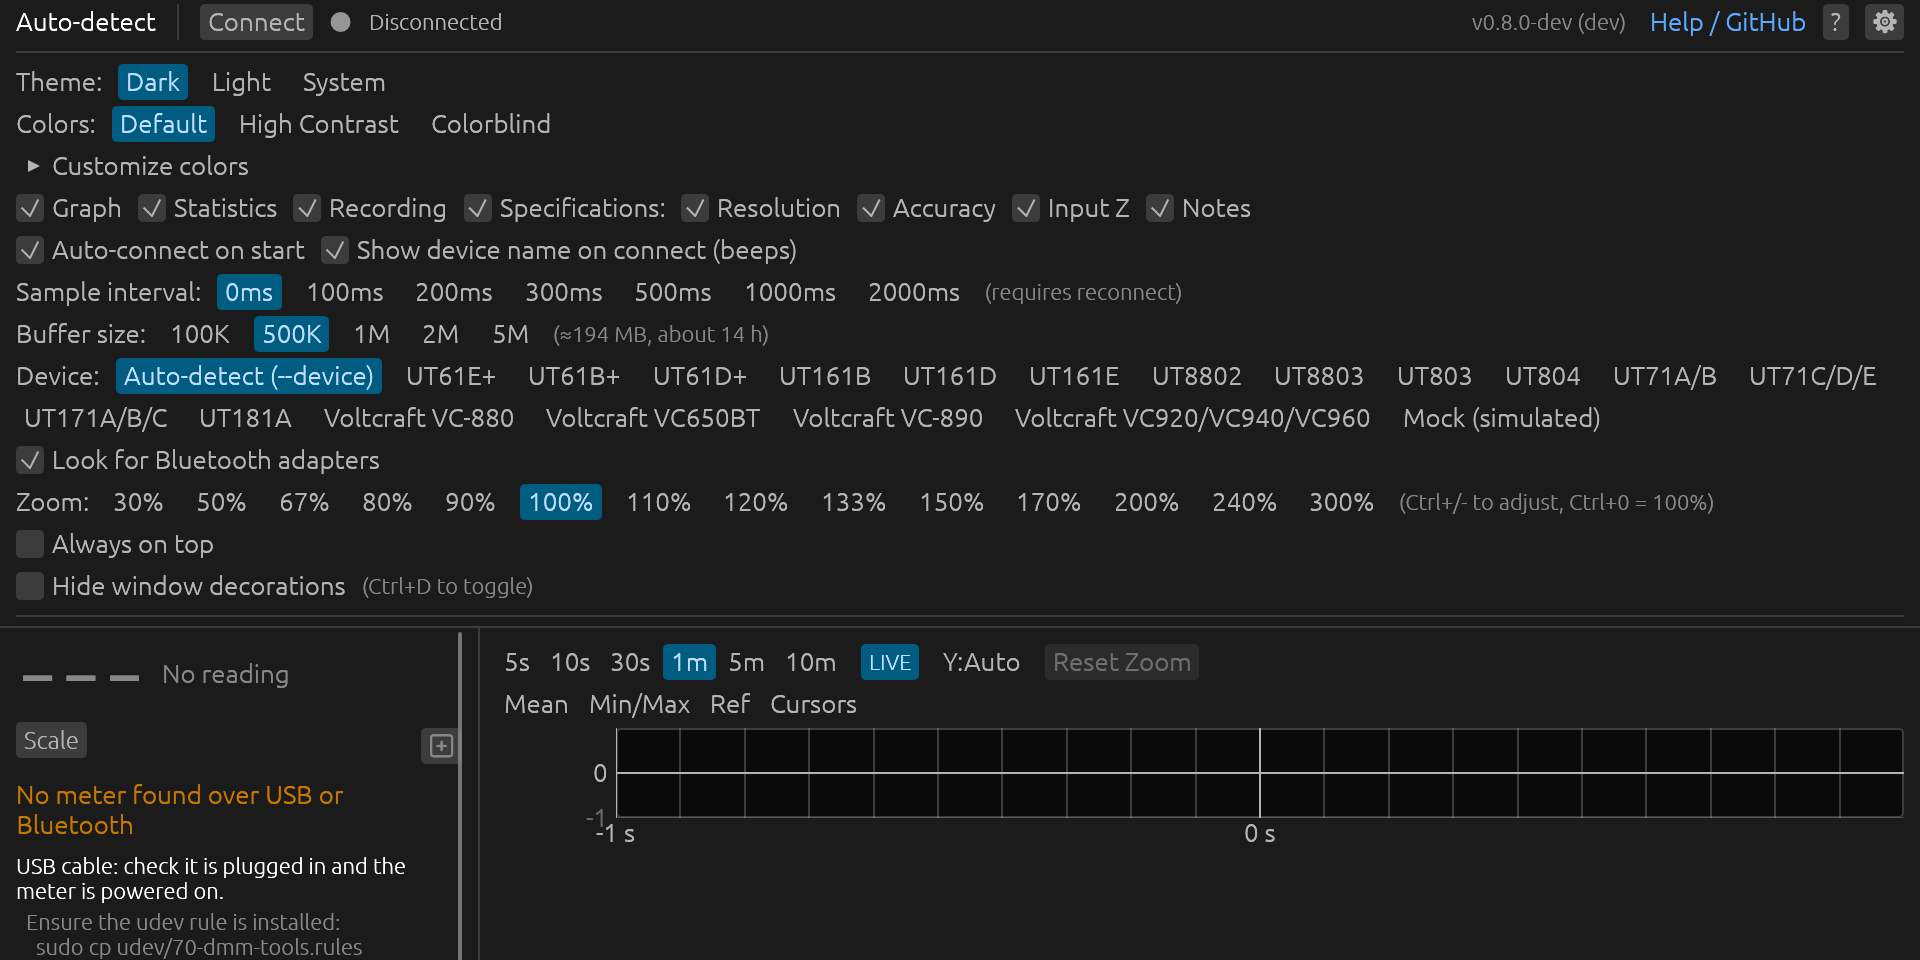
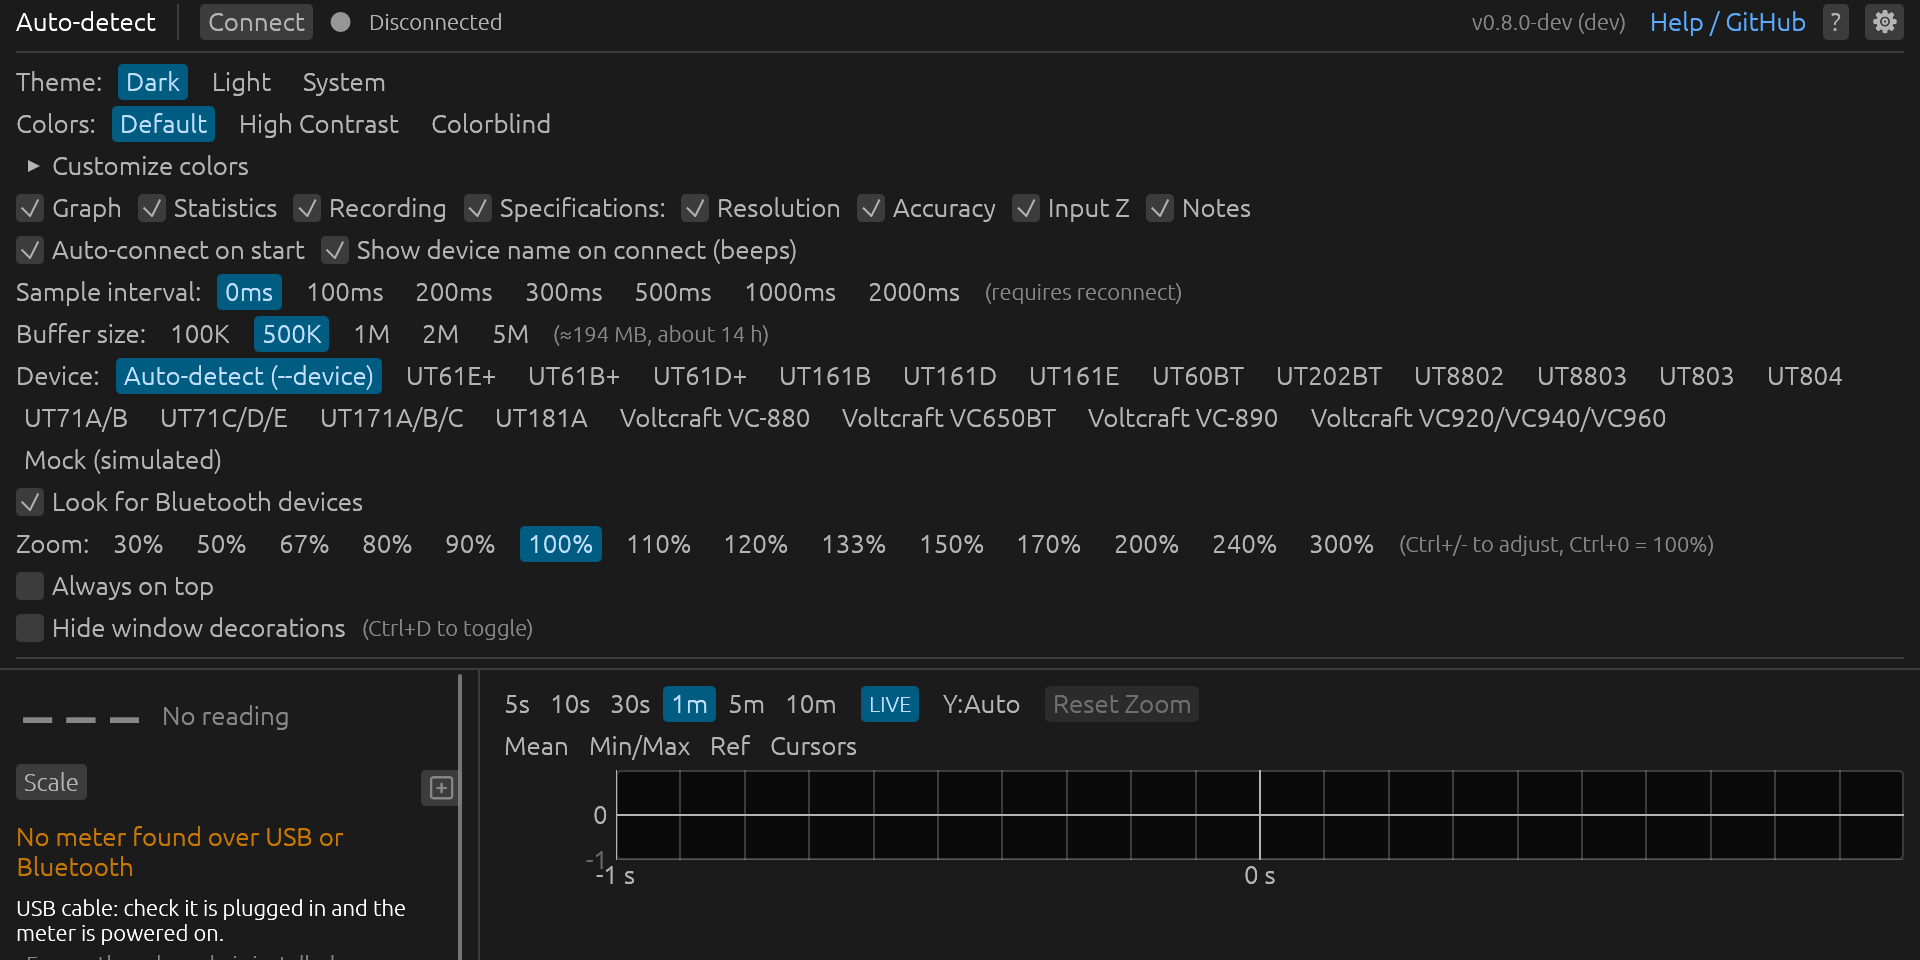
lib: look for Bluetooth devices, not only adapters
The Bluetooth setting and scan now find the UT60BT and UT202BT, which
have the radio built in, so the checkbox, its tooltip, the list hint
and the not-found error stop naming adapters alone.

diff --git a/crates/dmm-lib/src/binary_help.rs b/crates/dmm-lib/src/binary_help.rs
@@ -206,7 +206,7 @@ const USB_STEPS: &[&str] = &[];
 
 /// The GUI setting that lets an open search the radio, as its checkbox
 /// reads. The CLI reads the same saved setting, so its help names it too.
-pub const BLUETOOTH_SETTING: &str = "Look for Bluetooth adapters";
+pub const BLUETOOTH_SETTING: &str = "Look for Bluetooth devices";
 
 /// What turns the radio search back on in the CLI, for a meter with the
 /// radio built in that was not looked for: `flag_given` when
@@ -245,7 +245,7 @@ const BLUETOOTH_CATALOG: &[&str] = &[
 
 /// What to do instead when an address was named and nothing answered it: the
 /// scan is the only thing that says which addresses are live.
-const BLUETOOTH_SCAN: &[&str] = &["Run 'dmm-cli list' to scan for adapters in range."];
+const BLUETOOTH_SCAN: &[&str] = &["Run 'dmm-cli list' to scan for adapters and meters in range."];
 
 /// One link's worth of "nothing found" help: a label line, then its steps.
 ///
@@ -716,11 +716,11 @@ mod tests {
         assert_eq!(cli_bluetooth_off_hint(true), "Leave out --no-bluetooth.");
         assert_eq!(
             cli_bluetooth_off_hint(false),
-            "Tick \"Look for Bluetooth adapters\" in dmm-gui's settings, which dmm-cli reads too."
+            "Tick \"Look for Bluetooth devices\" in dmm-gui's settings, which dmm-cli reads too."
         );
         assert_eq!(
             gui_bluetooth_off_hint(),
-            "Tick \"Look for Bluetooth adapters\" in Settings (\u{2699})."
+            "Tick \"Look for Bluetooth devices\" in Settings (\u{2699})."
         );
     }
 

diff --git a/crates/dmm-lib/src/error.rs b/crates/dmm-lib/src/error.rs
@@ -139,7 +139,7 @@ fn bluetooth_only_message(model: &str, miss: &BluetoothOnlyMiss) -> String {
 /// Saying so keeps the user from hunting for a cable fault that isn't there.
 fn bluetooth_clause(searched: &bool) -> &'static str {
     if *searched {
-        ", nor a Bluetooth adapter in range"
+        ", nor a Bluetooth device in range"
     } else {
         ""
     }
@@ -404,7 +404,7 @@ mod tests {
     fn no_transport_message_names_every_link_tried() {
         let msg = not_found(true).to_string();
         assert!(
-            msg.contains(", nor a Bluetooth adapter in range"),
+            msg.contains(", nor a Bluetooth device in range"),
             "got {msg}"
         );
         assert!(!msg.contains("UT-D07"), "got {msg}");

diff --git a/crates/dmm-lib/src/lib.rs b/crates/dmm-lib/src/lib.rs
@@ -346,8 +346,8 @@ pub struct OpenOptions<'a> {
     /// `None` picks the first matching adapter (and logs a warning if several
     /// are found).
     pub adapter: Option<&'a str>,
-    /// Whether an open with nothing on the bus may go on to look for an
-    /// adapter in Bluetooth range. Off, nothing scans the radio — but an
+    /// Whether an open with nothing on the bus may go on to look for a
+    /// Bluetooth adapter or meter in range. Off, nothing scans the radio — but an
     /// address in `adapter` is still opened, having been asked for by name.
     pub bluetooth: bool,
 }

diff --git a/crates/dmm-gui/src/app/controls.rs b/crates/dmm-gui/src/app/controls.rs
@@ -709,7 +709,7 @@ impl App {
                 ui,
                 &mut self.settings.shared.bluetooth,
                 &label,
-                "Look for an adapter in Bluetooth range when no USB cable answers. \
+                "Look for a Bluetooth adapter or meter in range when no USB cable answers. \
                  Takes effect on the next connect.",
             ) {
                 // Cleared like every other row the user sets by hand: the

diff --git a/crates/dmm-gui/src/app/messages.rs b/crates/dmm-gui/src/app/messages.rs
@@ -1400,7 +1400,7 @@ mod tests {
         assert_eq!(
             n.body,
             "UT60BT connects over Bluetooth only, and Bluetooth is switched off. \
-             Tick \"Look for Bluetooth adapters\" in Settings (\u{2699})."
+             Tick \"Look for Bluetooth devices\" in Settings (\u{2699})."
         );
         assert!(n.sections.is_empty());
 

diff --git a/crates/dmm-gui/src/main.rs b/crates/dmm-gui/src/main.rs
@@ -58,7 +58,7 @@ struct Args {
     adapter: Option<String>,
 
     /// Turn off Bluetooth scanning for this session.
-    /// Overrides the "Look for Bluetooth adapters" setting. An address given
+    /// Overrides the "Look for Bluetooth devices" setting. An address given
     /// to --adapter is still opened.
     #[arg(long)]
     no_bluetooth: bool,

diff --git a/docs/architecture.md b/docs/architecture.md
@@ -145,7 +145,7 @@ by `"auto"` — a `Fingerprint` the entry points at; nothing in `detect.rs`, zer
 
 ### dmm-shared
 
-What `dmm-cli` and `dmm-gui` must agree on and `dmm-lib` must not carry — the layering is `dmm-lib` ← `dmm-shared` ← `dmm-cli`, `dmm-gui`. Anything both binaries need that isn't the meter library's business belongs here; device, protocol and transport code stays in `dmm-lib`, and anything one binary alone needs stays in that binary. Holds the `SharedSettings` struct — `device_family`, and `bluetooth`, whether an open may scan for Bluetooth adapters. Depends on `serde` + `serde_json` + `directories` + `chrono` + `env_logger` + `log` + `dmm-lib` (for the `Measurement` its JSON builder reads); no UI, no transport, no hardware code. Owns `config_path()` (the canonical `~/.config/dmm-tools/settings.json` location), `SharedSettings::load_if_exists()` for reading the file, `resolve_device_family()` — the `--device` flag → `device_family` → caller's default precedence both binaries apply, returning a `DeviceSource` so the CLI can print its fallback notice — and `write_atomic()`, the `.tmp` + fsync + rename helper both binaries use to persist user data (settings, capture reports, CSV exports) without risking a torn file. The `export` module is the same idea for what the two write out: `default_name()` is the `measurements-<meter>-<mode>-<start>.<ext>` name the GUI's Export… dialog opens on and `dmm-cli read -o` (given no file name) writes to, and `metadata_line()` + `measurement_json()` are the JSON both the GUI's export and `dmm-cli read --format json` emit — one builder, so a field added to a reading reaches both binaries at once. `logging::init()` is the logger both install: warnings from `dmm_lib` and errors from the rest unless `RUST_LOG` says otherwise. The fallback is passed into `resolve_device_family()` rather than looked up — a registry id, or `AUTO_DEVICE_ID` to let detection settle it — so the settings half of the crate does not reach into the registry.
+What `dmm-cli` and `dmm-gui` must agree on and `dmm-lib` must not carry — the layering is `dmm-lib` ← `dmm-shared` ← `dmm-cli`, `dmm-gui`. Anything both binaries need that isn't the meter library's business belongs here; device, protocol and transport code stays in `dmm-lib`, and anything one binary alone needs stays in that binary. Holds the `SharedSettings` struct — `device_family`, and `bluetooth`, whether an open may scan for Bluetooth adapters and meters. Depends on `serde` + `serde_json` + `directories` + `chrono` + `env_logger` + `log` + `dmm-lib` (for the `Measurement` its JSON builder reads); no UI, no transport, no hardware code. Owns `config_path()` (the canonical `~/.config/dmm-tools/settings.json` location), `SharedSettings::load_if_exists()` for reading the file, `resolve_device_family()` — the `--device` flag → `device_family` → caller's default precedence both binaries apply, returning a `DeviceSource` so the CLI can print its fallback notice — and `write_atomic()`, the `.tmp` + fsync + rename helper both binaries use to persist user data (settings, capture reports, CSV exports) without risking a torn file. The `export` module is the same idea for what the two write out: `default_name()` is the `measurements-<meter>-<mode>-<start>.<ext>` name the GUI's Export… dialog opens on and `dmm-cli read -o` (given no file name) writes to, and `metadata_line()` + `measurement_json()` are the JSON both the GUI's export and `dmm-cli read --format json` emit — one builder, so a field added to a reading reaches both binaries at once. `logging::init()` is the logger both install: warnings from `dmm_lib` and errors from the rest unless `RUST_LOG` says otherwise. The fallback is passed into `resolve_device_family()` rather than looked up — a registry id, or `AUTO_DEVICE_ID` to let detection settle it — so the settings half of the crate does not reach into the registry.
 
 The GUI's full `Settings` struct includes `SharedSettings` via `#[serde(flatten)]` so the on-disk JSON stays flat (`device_family` at the top level alongside `theme`, `show_graph`, etc.). The CLI deserializes the same file directly into `SharedSettings`, silently ignoring any GUI-only fields. Because both sides reference exactly one Rust type for the shared fields, renaming or retyping `device_family` breaks both compilations simultaneously — the contract is compile-enforced.
 

diff --git a/docs/gui-reference.md b/docs/gui-reference.md
@@ -384,7 +384,7 @@ Opened via the gear icon. Persisted to `~/.config/dmm-tools/settings.json` on Li
 | **Sample interval** | 0 ms | Delay between measurements: 0 (as fast as the link delivers: on a UT61E+, about 10 a second over USB, 3 over Bluetooth), 100, 200, 300, 500, 1000, 2000 ms. Requires reconnect. |
 | **Buffer size** | 500K | Samples kept by the graph and for export alike: 100K, 500K, 1M, 2M, 5M. Applies immediately; lowering it drops the oldest points and stops a recording already past the new size. Hover shows the memory and hours each size buys. `settings.json` accepts any size from 1K to 50M. |
 | **Device** | Auto-detect | Auto-detect finds the meter and saves it here; the other chips pick a model directly. Requires reconnect. |
-| **Look for Bluetooth adapters** | on | When off, nothing scans for adapters or meters and the connection help offers no Bluetooth steps. An address given to `--adapter` is still opened. Takes effect on the next connect. |
+| **Look for Bluetooth devices** | on | When off, nothing scans for adapters or meters and the connection help offers no Bluetooth steps. An address given to `--adapter` is still opened. Takes effect on the next connect. |
 | **Mock mode** | Auto (cycle) | Only shown when Device is Mock. Pins the mock to one of the scenarios listed under [Command-Line Options](#command-line-options), or cycles through all of them. Requires reconnect. |
 | **Zoom** | 100% | UI scale (30%–300%). Also controllable via keyboard. |
 | **Always on top** | off | Keep the window above all other windows (`Ctrl+T`). Not available on Wayland (greyed out): right-click the title bar and use the window menu instead. |
@@ -469,7 +469,7 @@ do not modify the persisted `settings.json`.
 |--------|-------------|
 | `--device <ID>` | Meter model to connect to (e.g., `ut61eplus`, `ut181a`, `mock`), or `auto` (default). `--help` lists them. |
 | `--adapter <SERIAL_PATH_OR_ADDRESS>` | Select a specific adapter when more than one is reachable. Use the serial number or HID path of a USB cable, or the address of a Bluetooth adapter, from `dmm-cli list` output. |
-| `--no-bluetooth` | Turn off Bluetooth scanning for this session, whatever **Look for Bluetooth adapters** is set to. |
+| `--no-bluetooth` | Turn off Bluetooth scanning for this session, whatever **Look for Bluetooth devices** is set to. |
 | `--mock-mode <MODE>` | Pin mock device to a specific mode (only with `--device mock`). Modes: dcv, acv, ohm, cap, hz, temp, dcma, ohm-ol, ncv, acv-hz, temp2, temp-diff, temp-diff-rev, noise. |
 | `--replay <FILE>` | Play back a replay file — saved by [Export…](#recording) or `dmm-cli read --format replay` — instead of connecting to a meter. |
 | `--theme <THEME>` | Theme override: `dark`, `light`, or `system`. |

diff --git a/docs/setup.md b/docs/setup.md
@@ -105,7 +105,7 @@ The UT60BT and UT202BT have Bluetooth built in and take the same steps
 without the adapter: turn the meter on, then long-press SEL on the UT60BT,
 or short-press the Bluetooth button on the UT202BT, until the Bluetooth
 symbol shows. The UT202BT switches Bluetooth off after 5 minutes without a
-connection. For either, keep **Look for Bluetooth adapters** ticked and
+connection. For either, keep **Look for Bluetooth devices** ticked and
 leave out `--no-bluetooth`.
 
 Pair the adapter in the system's Bluetooth settings for a quicker connection.
@@ -160,7 +160,7 @@ on their own once it transmits again.
 - A USB cable wins over Bluetooth: with a cable plugged in, `auto` uses it even
   when the meter behind it says nothing. Unplug the cable, or pass
   `--adapter <address>`.
-- Leave out `--no-bluetooth`, and tick **Look for Bluetooth adapters** in the
+- Leave out `--no-bluetooth`, and tick **Look for Bluetooth devices** in the
   GUI's settings: with either off, nothing scans.
 
 A UT-D07A that is listed and connects but fails with "no UART … characteristic"
